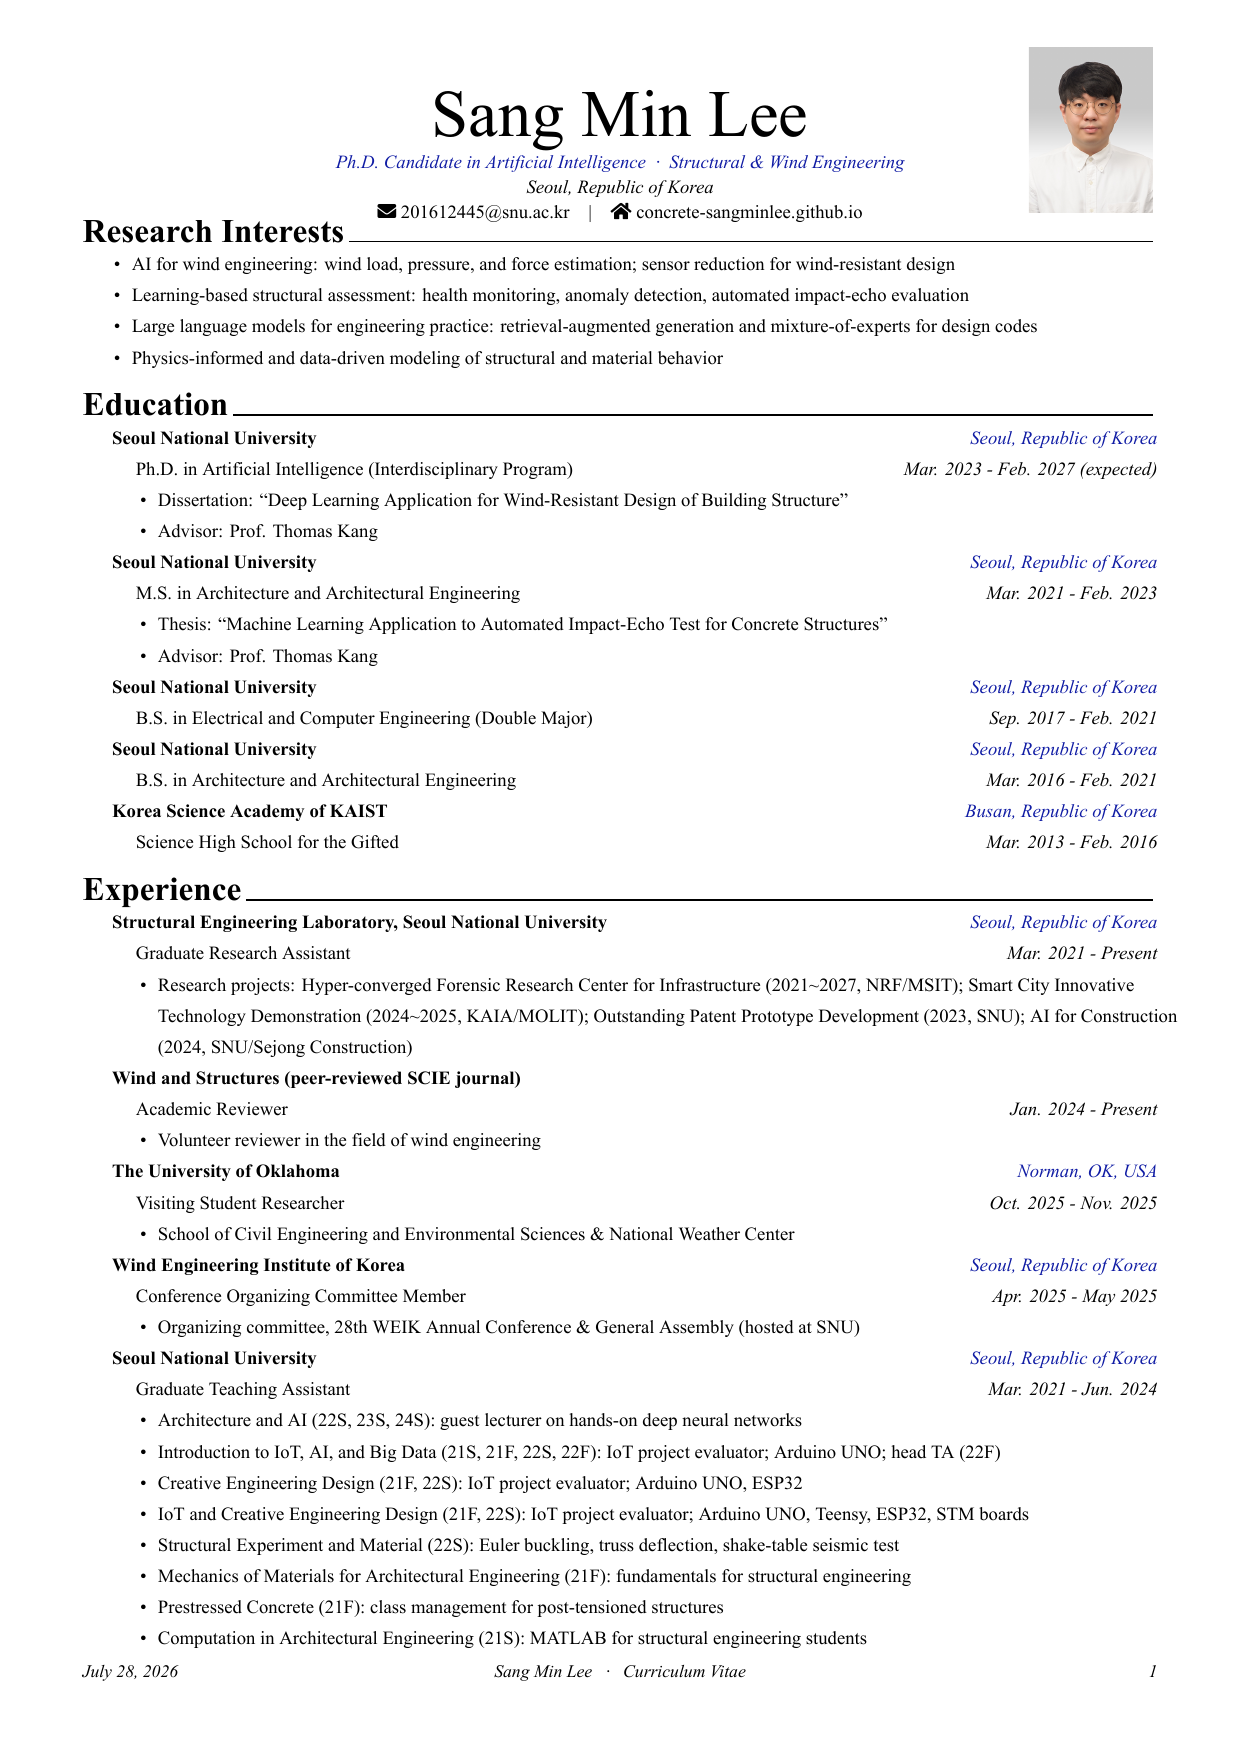
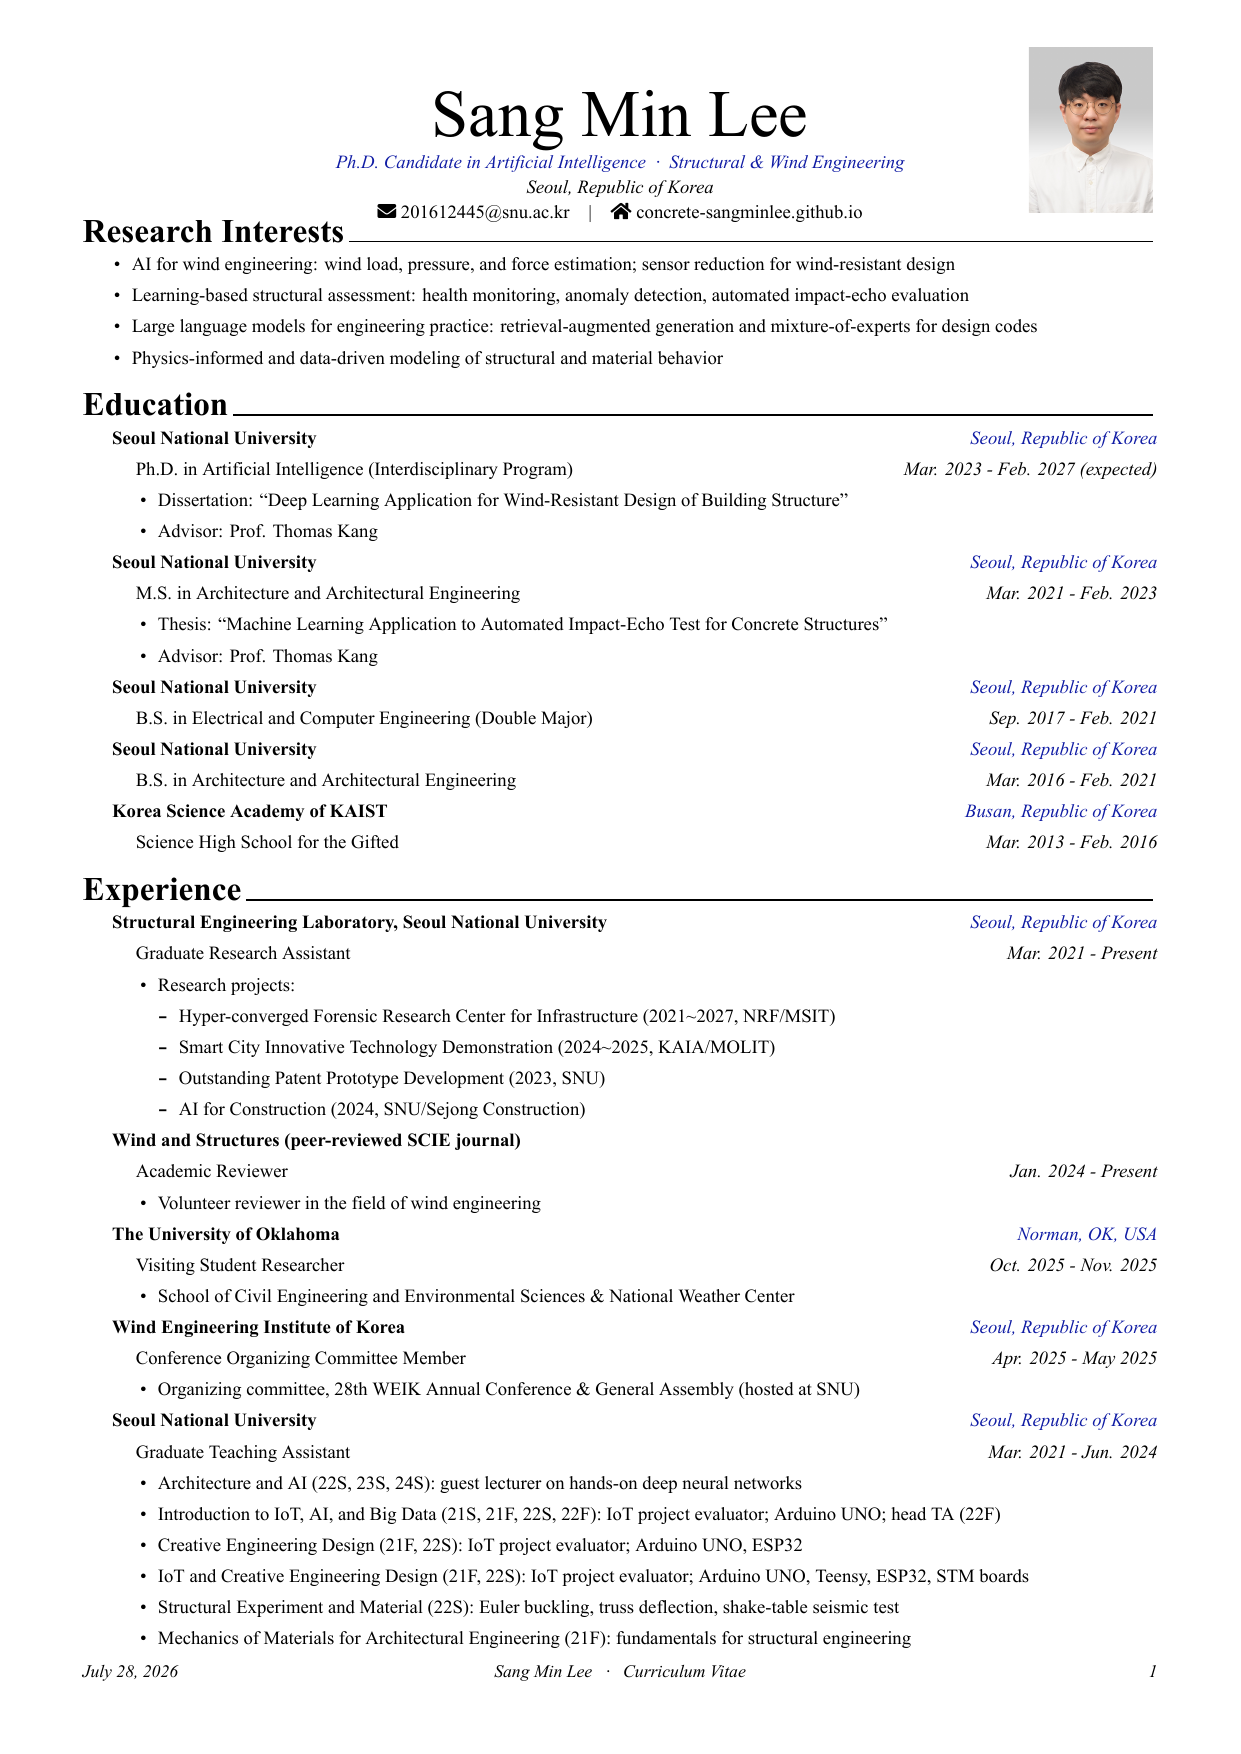
Break research projects into nested one-line sub-bullets

diff --git a/research-cv/cv/research_experience.tex b/research-cv/cv/research_experience.tex
@@ -16,7 +16,14 @@
   {Mar. 2021 - Present}
   {
     \begin{cvitems}
-      \item {\hyphenpenalty=10000\exhyphenpenalty=10000 Research projects: Hyper-converged Forensic Research Center for Infrastructure (2021\textasciitilde2027, NRF/MSIT); Smart City Innovative Technology Demonstration (2024\textasciitilde2025, KAIA/MOLIT); Outstanding Patent Prototype Development (2023, SNU); AI for Construction (2024, SNU/Sejong Construction)\endgraf}
+      \item {Research projects:}
+        \begin{itemize}[leftmargin=2.5ex, nosep, noitemsep]
+          \setlength{\parskip}{0pt}
+          \item {Hyper-converged Forensic Research Center for Infrastructure (2021\textasciitilde2027, NRF/MSIT)}
+          \item {Smart City Innovative Technology Demonstration (2024\textasciitilde2025, KAIA/MOLIT)}
+          \item {Outstanding Patent Prototype Development (2023, SNU)}
+          \item {AI for Construction (2024, SNU/Sejong Construction)}
+        \end{itemize}
     \end{cvitems}
   }
 
